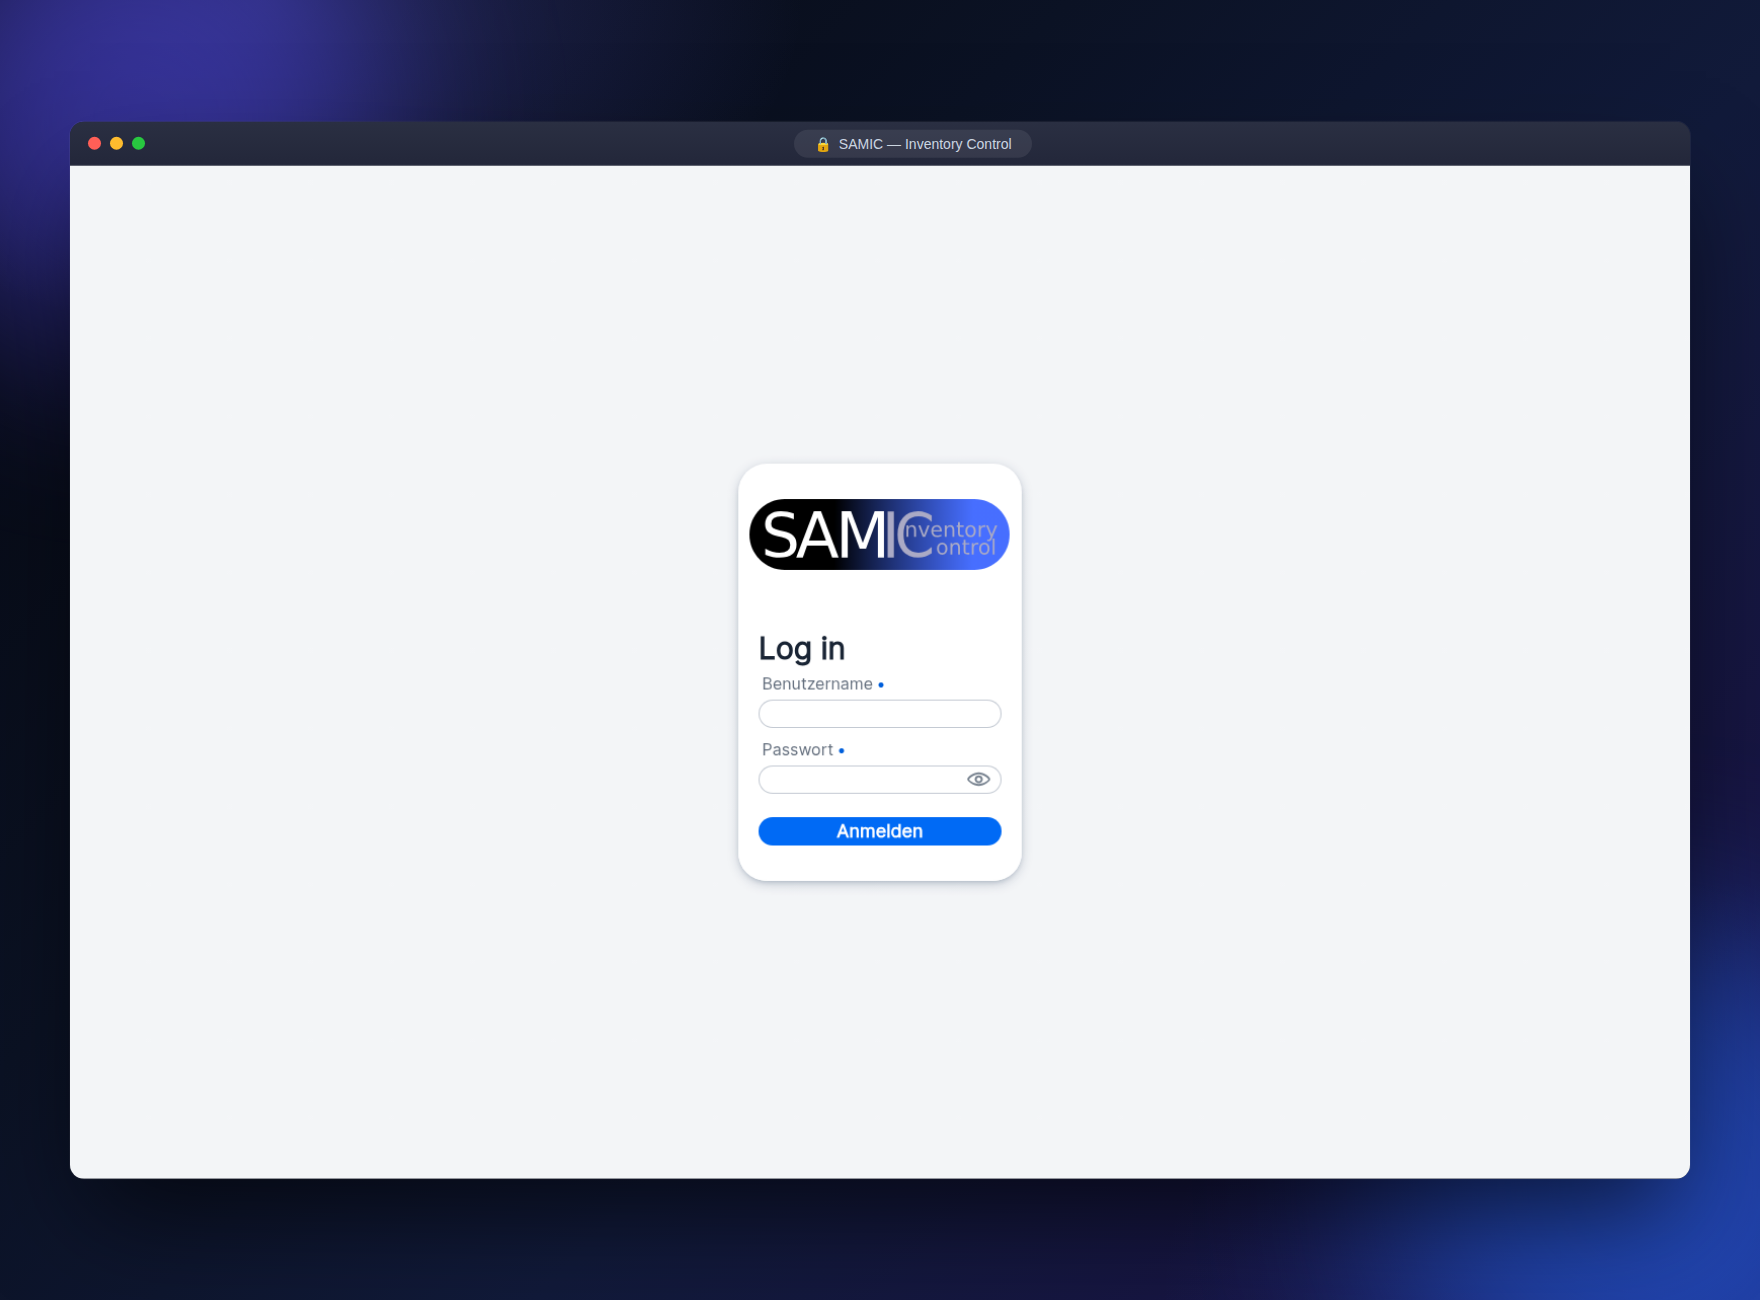
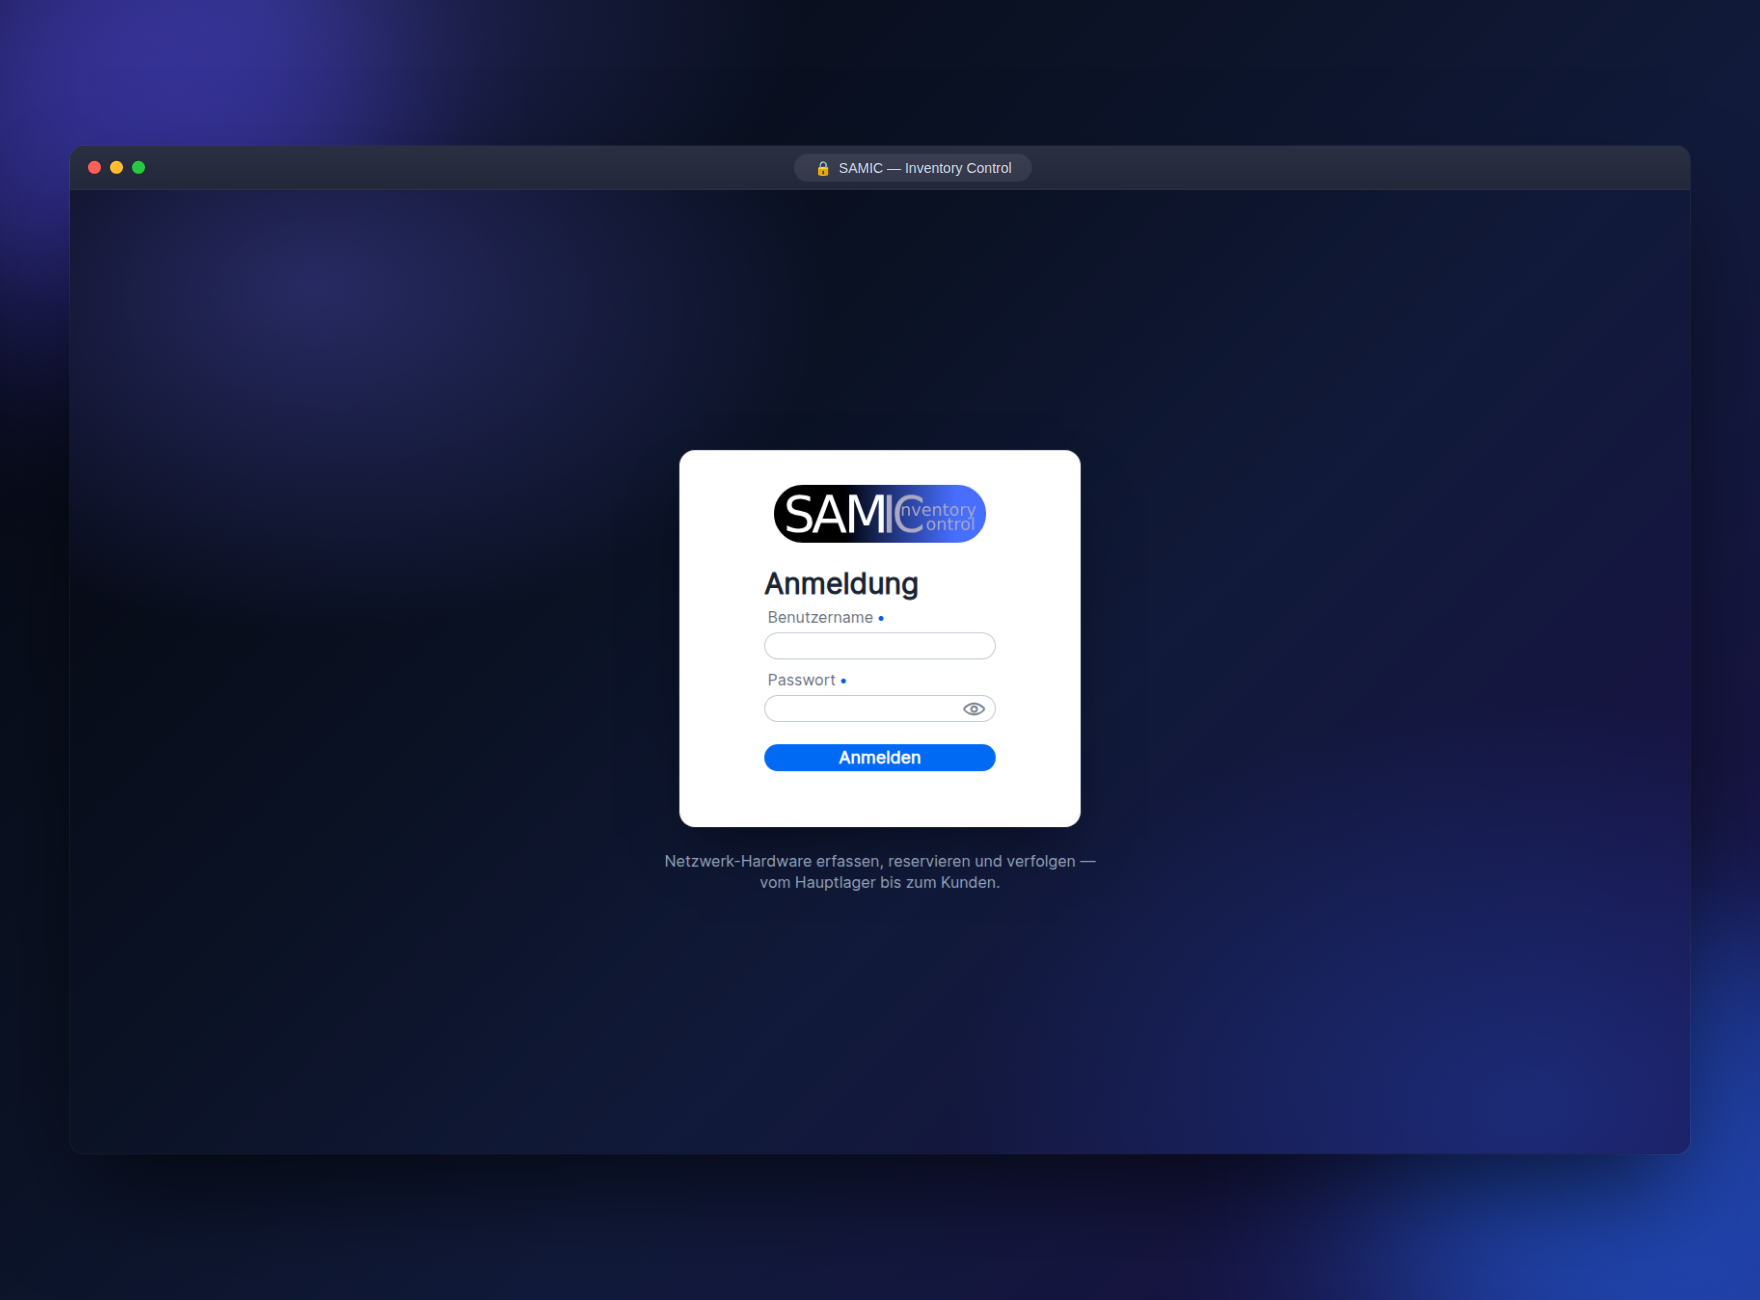
Simplify login to centered card on branded background
Replace the two-pane login with a single centered card on the brand
gradient plus a one-line tagline, and refresh the login marketing shot

diff --git a/frontend/themes/samic/login-view.css b/frontend/themes/samic/login-view.css
@@ -1,87 +1,45 @@
-/* Two-pane login: product showcase left, form right */
+/* Centered login card on branded gradient background */
 
 .login-view {
     display: flex;
+    flex-direction: column;
+    align-items: center;
+    justify-content: center;
+    gap: 1.5rem;
     min-height: 100vh;
     width: 100%;
-}
-
-.login-showcase {
-    flex: 1.2;
-    display: flex;
-    flex-direction: column;
-    justify-content: center;
-    padding: 4rem 4.5rem;
-    color: #e2e8f0;
+    padding: 1.5rem;
+    box-sizing: border-box;
     background:
         radial-gradient(900px 600px at 15% 10%, rgba(99, 102, 241, 0.35), transparent 60%),
         radial-gradient(1000px 700px at 90% 95%, rgba(37, 99, 235, 0.30), transparent 60%),
         linear-gradient(135deg, #05070f 0%, #0b1224 35%, #111a3a 60%, #1b1148 100%);
 }
 
-.login-showcase h1 {
-    color: #ffffff;
-    font-size: 2.4rem;
-    font-weight: 800;
-    letter-spacing: -0.02em;
-    margin: 0 0 0.75rem 0;
-}
-
-.login-showcase p {
-    color: #94a3b8;
-    font-size: 1.125rem;
-    max-width: 36rem;
-    margin: 0 0 1.5rem 0;
-}
-
-.login-showcase ul {
-    list-style: none;
-    padding: 0;
-    margin: 0 0 2.25rem 0;
-    display: flex;
-    flex-direction: column;
-    gap: 0.65rem;
-}
-
-.login-showcase li {
-    display: flex;
-    align-items: baseline;
-    gap: 0.65rem;
-    color: #cbd5e1;
-    font-size: 1rem;
-}
-
-.login-feature-check {
-    color: #34d399;
-    font-weight: 700;
-}
-
-.login-preview {
-    width: 100%;
-    max-width: 660px;
-    border-radius: 12px;
-    border: 1px solid rgba(255, 255, 255, 0.14);
-    box-shadow: 0 40px 80px -24px rgba(0, 0, 0, 0.65);
-}
-
-.login-form-pane {
-    flex: 1;
+.login-card {
     display: flex;
     flex-direction: column;
     align-items: center;
-    justify-content: center;
-    gap: 0.5rem;
-    padding: 2rem;
+    width: 100%;
+    max-width: 26rem;
+    padding: 2.25rem 1.5rem 1rem 1.5rem;
+    box-sizing: border-box;
     background: var(--lumo-base-color);
+    border-radius: 1rem;
+    box-shadow:
+        0 30px 60px -20px rgba(0, 0, 0, 0.55),
+        0 0 0 1px rgba(255, 255, 255, 0.08);
 }
 
 .login-logo {
-    height: 4.5rem;
-    max-width: 80%;
+    height: 3.75rem;
+    max-width: 85%;
 }
 
-@media (max-width: 960px) {
-    .login-showcase {
-        display: none;
-    }
+.login-tagline {
+    color: #94a3b8;
+    font-size: 1rem;
+    text-align: center;
+    max-width: 30rem;
+    margin: 0;
 }

diff --git a/src/main/java/com/samic/samic/views/login/LoginView.java b/src/main/java/com/samic/samic/views/login/LoginView.java
@@ -2,12 +2,8 @@ package com.samic.samic.views.login;
 
 import com.samic.samic.security.AuthenticatedUser;
 import com.vaadin.flow.component.html.Div;
-import com.vaadin.flow.component.html.H1;
 import com.vaadin.flow.component.html.Image;
-import com.vaadin.flow.component.html.ListItem;
 import com.vaadin.flow.component.html.Paragraph;
-import com.vaadin.flow.component.html.Span;
-import com.vaadin.flow.component.html.UnorderedList;
 import com.vaadin.flow.component.login.LoginForm;
 import com.vaadin.flow.component.login.LoginI18n;
 import com.vaadin.flow.router.BeforeEnterEvent;
@@ -29,6 +25,8 @@ public class LoginView extends Div implements BeforeEnterObserver {
   private static final String ANMELDE_BUTTON = "Anmelden";
   private static final String ERROR_MESSAGE = "Benutzername/Passwort ungültig";
   private static final String ERROR_TITLE = "Fehler beim Anmelden";
+  private static final String TAGLINE =
+      "Netzwerk-Hardware erfassen, reservieren und verfolgen — vom Hauptlager bis zum Kunden.";
   private final AuthenticatedUser authenticatedUser;
   private final LoginForm loginForm = new LoginForm();
 
@@ -39,42 +37,9 @@ public class LoginView extends Div implements BeforeEnterObserver {
 
   private void initUI() {
     addClassName("login-view");
-    add(buildShowcase(), buildFormPane());
-    setSizeFull();
-  }
 
-  private Div buildShowcase() {
-    Div showcase = new Div();
-    showcase.addClassName("login-showcase");
-
-    H1 headline = new H1("Netzwerk-Hardware im Griff");
-    Paragraph subline =
-        new Paragraph(
-            "Erfassen, reservieren und verfolgen Sie Ihre gesamte Hardware — "
-                + "vom Hauptlager bis zum Kunden.");
-
-    UnorderedList features =
-        new UnorderedList(
-            feature("Live-Bestandsübersicht mit Mindestbestands-Warnungen"),
-            feature("Reservierungen und Übergaben zwischen Technikern"),
-            feature("Rollenbasierte Verwaltung von Benutzern und Lagerorten"));
-
-    Image preview = new Image("images/preview-dashboard.png", "SAMIC Dashboard Vorschau");
-    preview.addClassName("login-preview");
-
-    showcase.add(headline, subline, features, preview);
-    return showcase;
-  }
-
-  private ListItem feature(String text) {
-    Span check = new Span("✓");
-    check.addClassName("login-feature-check");
-    return new ListItem(check, new Span(text));
-  }
-
-  private Div buildFormPane() {
-    Div formPane = new Div();
-    formPane.addClassName("login-form-pane");
+    Div card = new Div();
+    card.addClassName("login-card");
 
     Image logo = new Image("images/logo_samic.svg", "SAMIC — Inventory Control");
     logo.addClassName("login-logo");
@@ -93,8 +58,13 @@ public class LoginView extends Div implements BeforeEnterObserver {
     loginForm.setAction(
         RouteUtil.getRoutePath(VaadinService.getCurrent().getContext(), getClass()));
 
-    formPane.add(logo, loginForm);
-    return formPane;
+    card.add(logo, loginForm);
+
+    Paragraph tagline = new Paragraph(TAGLINE);
+    tagline.addClassName("login-tagline");
+
+    add(card, tagline);
+    setSizeFull();
   }
 
   @Override
